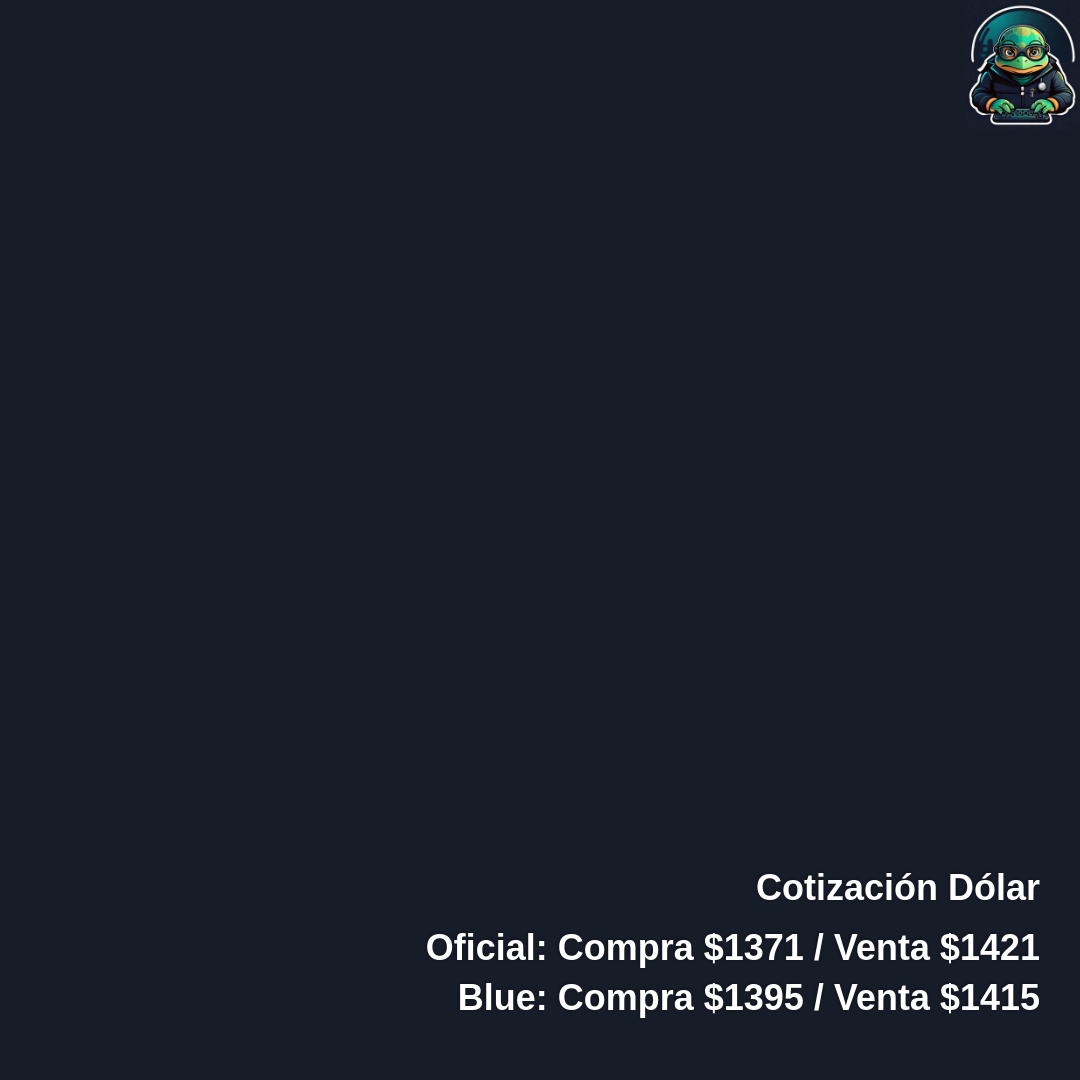
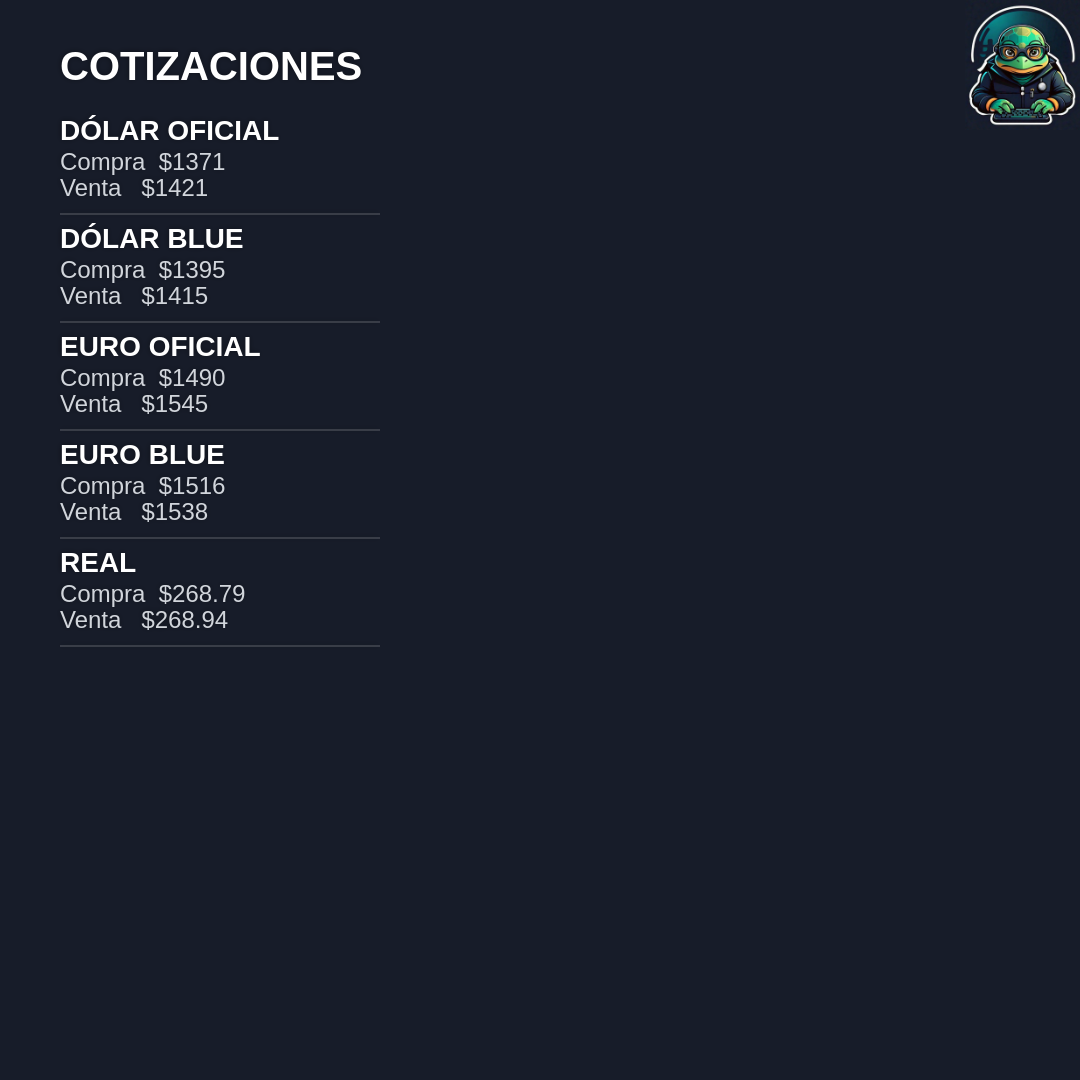
real y euro

Changed region(s): [[0.0611, 0.0306, 0.3361, 0.5806], [0.3972, 0.7944, 0.9778, 0.9472]]

diff --git a/index.js b/index.js
@@ -26,45 +26,72 @@ function delay(ms) {
 
 // Generar imagen con la cotización encima
 async function generarImagenDolar(cotizaciones) {
-    // cotizaciones = { blue_buy, blue_sell, oficial_buy, oficial_sell }
 
     const image = await loadImage(TEMPLATE_URL);
     const canvas = createCanvas(image.width, image.height);
     const ctx = canvas.getContext('2d');
 
-    // Dibujar plantilla
     ctx.drawImage(image, 0, 0, image.width, image.height);
 
-    const padding = 40;
+    const margin = 60;   // margen desde borde
+    const startX = margin;
+    let y = margin + 20;
 
-    // Título
-    ctx.font = 'bold 36px Arial';
-    ctx.fillStyle = 'white';
-    ctx.shadowColor = 'rgba(0,0,0,0.5)';
-    ctx.shadowBlur = 4;
+    const fontTitle = 'bold 40px Arial';
+    const fontCurrency = 'bold 28px Arial';
+    const fontValues = '24px Arial';
 
-    const textTitle = 'Cotización Dólar';
-    const titleWidth = ctx.measureText(textTitle).width;
-    ctx.fillText(textTitle, image.width - titleWidth - padding, image.height - 180);
+    ctx.shadowColor = 'rgba(0,0,0,0.4)';
+    ctx.shadowBlur = 6;
 
-    // Configuración de valores (fuente un poco más grande para los números)
-    ctx.font = 'bold 36px Arial';
+    // TÍTULO
+    ctx.font = fontTitle;
+    ctx.fillStyle = '#ffffff';
+    ctx.fillText("COTIZACIONES", startX, y);
 
-    const lines = [
-        `Oficial: Compra $${cotizaciones.oficial_buy} / Venta $${cotizaciones.oficial_sell}`,
-        `Blue: Compra $${cotizaciones.blue_buy} / Venta $${cotizaciones.blue_sell}`
+    y += 60;
+
+    const monedas = [
+        { nombre: "DÓLAR OFICIAL", buy: cotizaciones.oficial_buy, sell: cotizaciones.oficial_sell },
+        { nombre: "DÓLAR BLUE", buy: cotizaciones.blue_buy, sell: cotizaciones.blue_sell },
+        { nombre: "EURO OFICIAL", buy: cotizaciones.euro_oficial_buy, sell: cotizaciones.euro_oficial_sell },
+        { nombre: "EURO BLUE", buy: cotizaciones.euro_blue_buy, sell: cotizaciones.euro_blue_sell },
+        { nombre: "REAL", buy: cotizaciones.real_buy, sell: cotizaciones.real_sell }
     ];
 
-    // Escribir cada línea con un margen vertical
-    lines.forEach((line, i) => {
-        const lineWidth = ctx.measureText(line).width;
-        ctx.fillText(line, image.width - lineWidth - padding, image.height - 120 + i * 50);
+    monedas.forEach((moneda) => {
+
+        ctx.font = fontCurrency;
+        ctx.fillStyle = "#ffffff";
+        ctx.fillText(moneda.nombre, startX, y);
+
+        y += 30;
+
+        ctx.font = fontValues;
+        ctx.fillStyle = "#d1d5db";
+
+        ctx.fillText(`Compra  $${moneda.buy}`, startX, y);
+        y += 26;
+
+        ctx.fillText(`Venta   $${moneda.sell}`, startX, y);
+
+        y += 18;
+
+        // línea separadora
+        ctx.beginPath();
+        ctx.strokeStyle = "rgba(255,255,255,0.3)";
+        ctx.lineWidth = 1;
+        ctx.moveTo(startX, y);
+        ctx.lineTo(startX + 320, y);
+        ctx.stroke();
+
+        y += 34;
     });
 
-    // Guardar imagen
-    const buffer = canvas.toBuffer('image/png');
+    const buffer = canvas.toBuffer("image/png");
     fs.writeFileSync(OUTPUT_IMAGE, buffer);
-    console.log('✅ Imagen generada:', OUTPUT_IMAGE);
+
+    console.log("✅ Imagen generada:", OUTPUT_IMAGE);
 
     return OUTPUT_IMAGE;
 }
@@ -74,14 +101,34 @@ async function publicarInstagram() {
     try {
         // 1⃣ Obtener cotización completa
         const res = await axios.get('https://api.bluelytics.com.ar/v2/latest');
+        const resBRL = await axios.get('https://economia.awesomeapi.com.br/json/last/BRL-ARS');
+
+        const real = resBRL.data.BRLARS;
+
+        const real_buy = parseFloat(real.bid).toFixed(2);
+        const real_sell = parseFloat(real.ask).toFixed(2);
+
         const dolarBlue = res.data.blue;
         const dolarOficial = res.data.oficial;
+
+        const euroBlue = res.data.blue_euro;
+        const euroOficial = res.data.oficial_euro;
 
         const cotizaciones = {
             blue_buy: dolarBlue.value_buy,
             blue_sell: dolarBlue.value_sell,
+
             oficial_buy: dolarOficial.value_buy,
-            oficial_sell: dolarOficial.value_sell
+            oficial_sell: dolarOficial.value_sell,
+
+            euro_blue_buy: euroBlue.value_buy,
+            euro_blue_sell: euroBlue.value_sell,
+
+            euro_oficial_buy: euroOficial.value_buy,
+            euro_oficial_sell: euroOficial.value_sell,
+
+            real_buy: real_buy,
+            real_sell: real_sell
         };
 
         console.log('💵 Cotizaciones obtenidas:', cotizaciones);
@@ -103,10 +150,18 @@ async function publicarInstagram() {
             {
                 params: {
                     image_url: IMAGE_URL,
-                    caption: `💵 Cotización del día:
-                    Dólar Blue: Compra $${cotizaciones.blue_buy} / Venta $${cotizaciones.blue_sell}
-                    Dólar Oficial: Compra $${cotizaciones.oficial_buy} / Venta $${cotizaciones.oficial_sell}
-                    #DolarBlue #DolarOficial #CotizacionDiaria #Argentina`,
+                    caption: `💵 Cotización del día
+
+                  Dólar Blue: Compra $${cotizaciones.blue_buy} / Venta $${cotizaciones.blue_sell}
+                  Dólar Oficial: Compra $${cotizaciones.oficial_buy} / Venta $${cotizaciones.oficial_sell}
+
+                  Euro Blue: Compra $${cotizaciones.euro_blue_buy} / Venta $${cotizaciones.euro_blue_sell}
+                  Euro Oficial: Compra $${cotizaciones.euro_oficial_buy} / Venta $${cotizaciones.euro_oficial_sell}
+
+                  Real: $${cotizaciones.real_buy} / $${cotizaciones.real_sell}
+
+                  #DolarBlue #EuroBlue #DolarHoy 
+                  #CotizacionArgentina`,
                     access_token: ACCESS_TOKEN
                 }
             }
